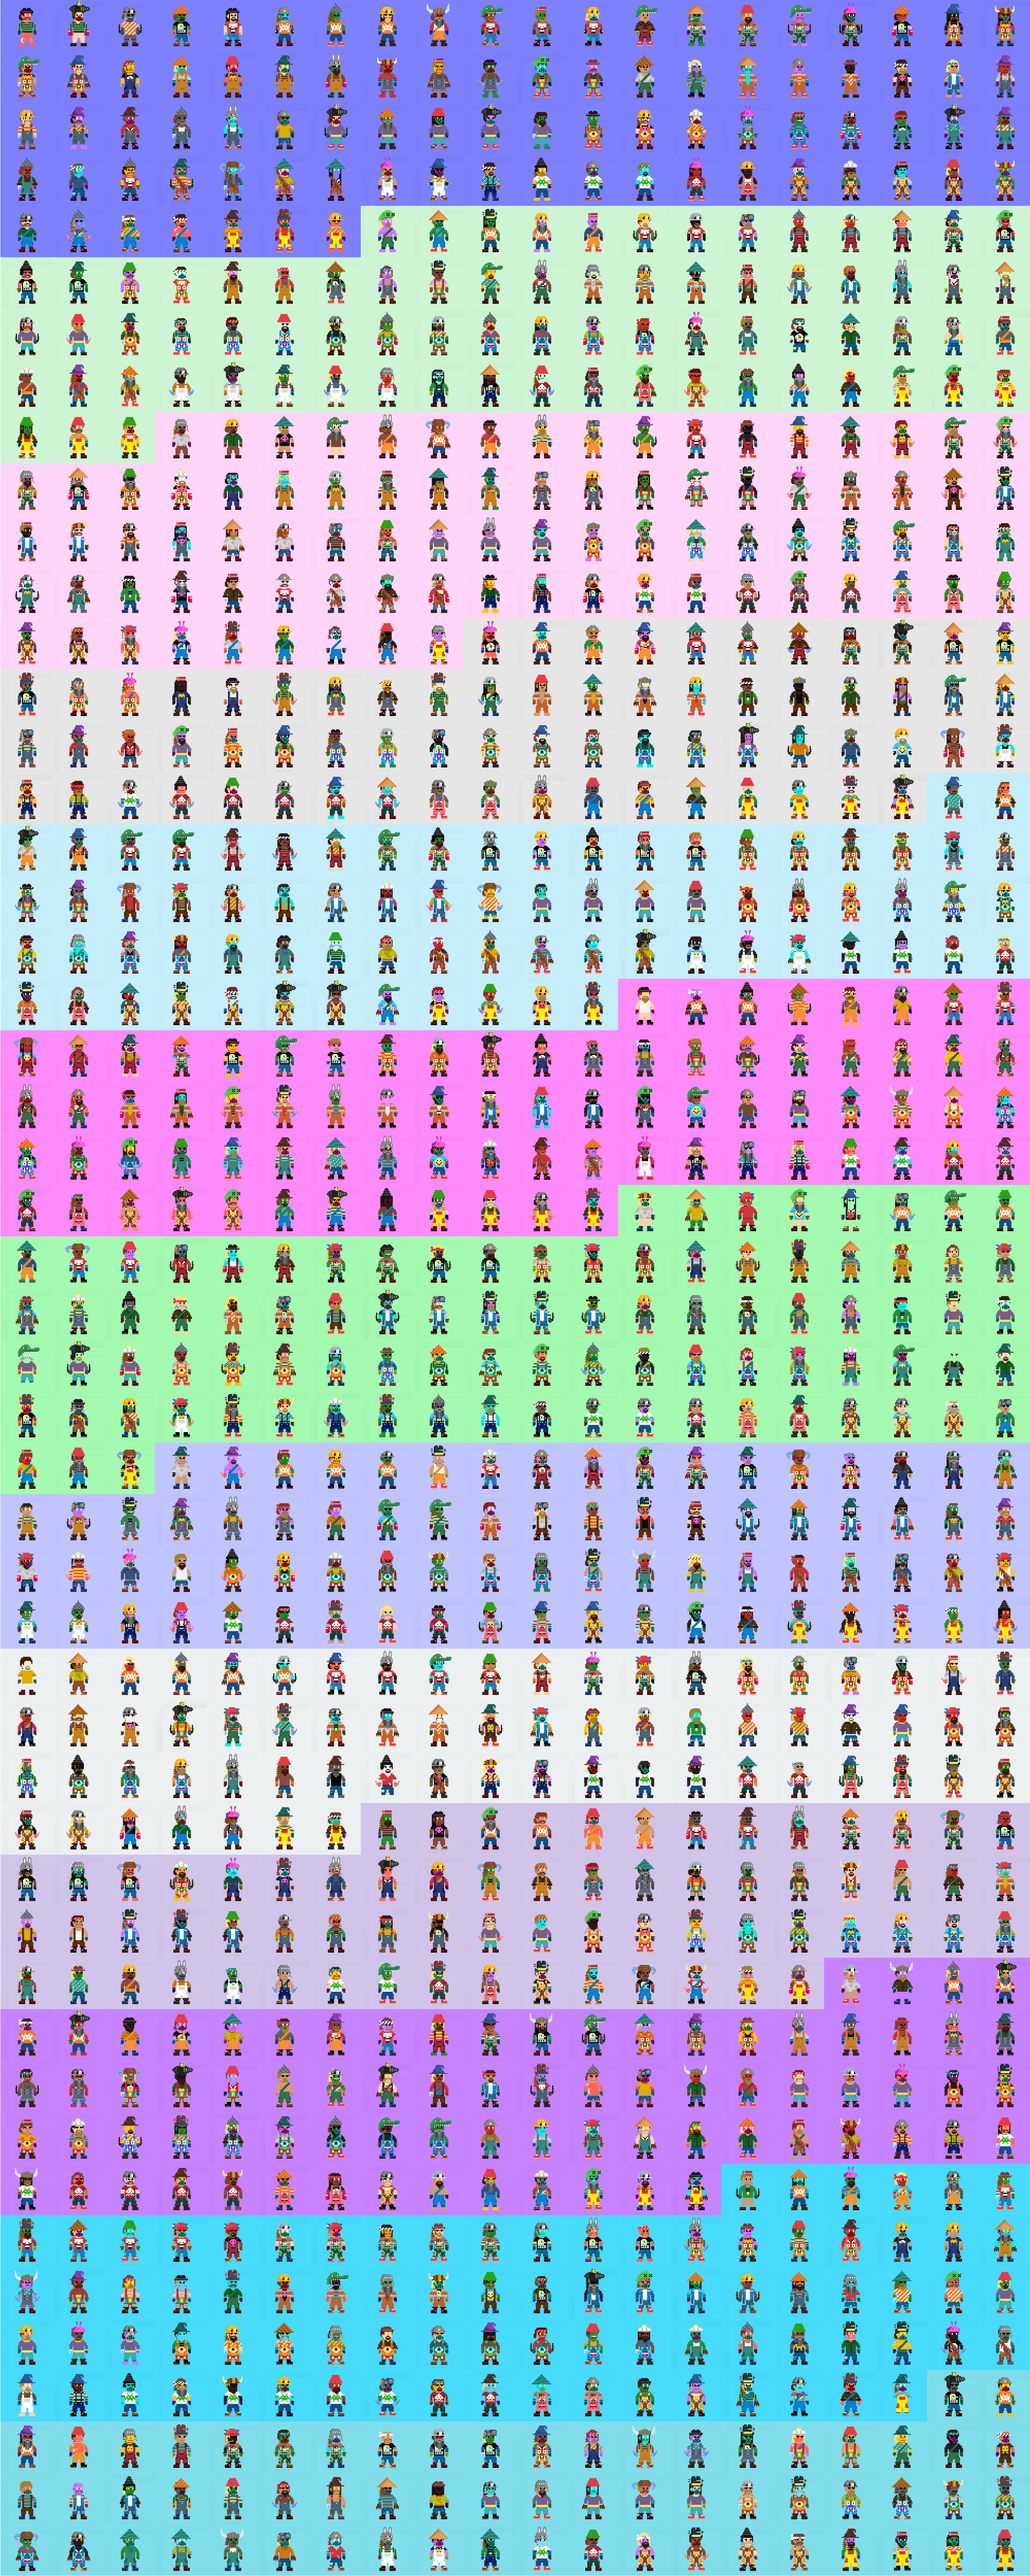
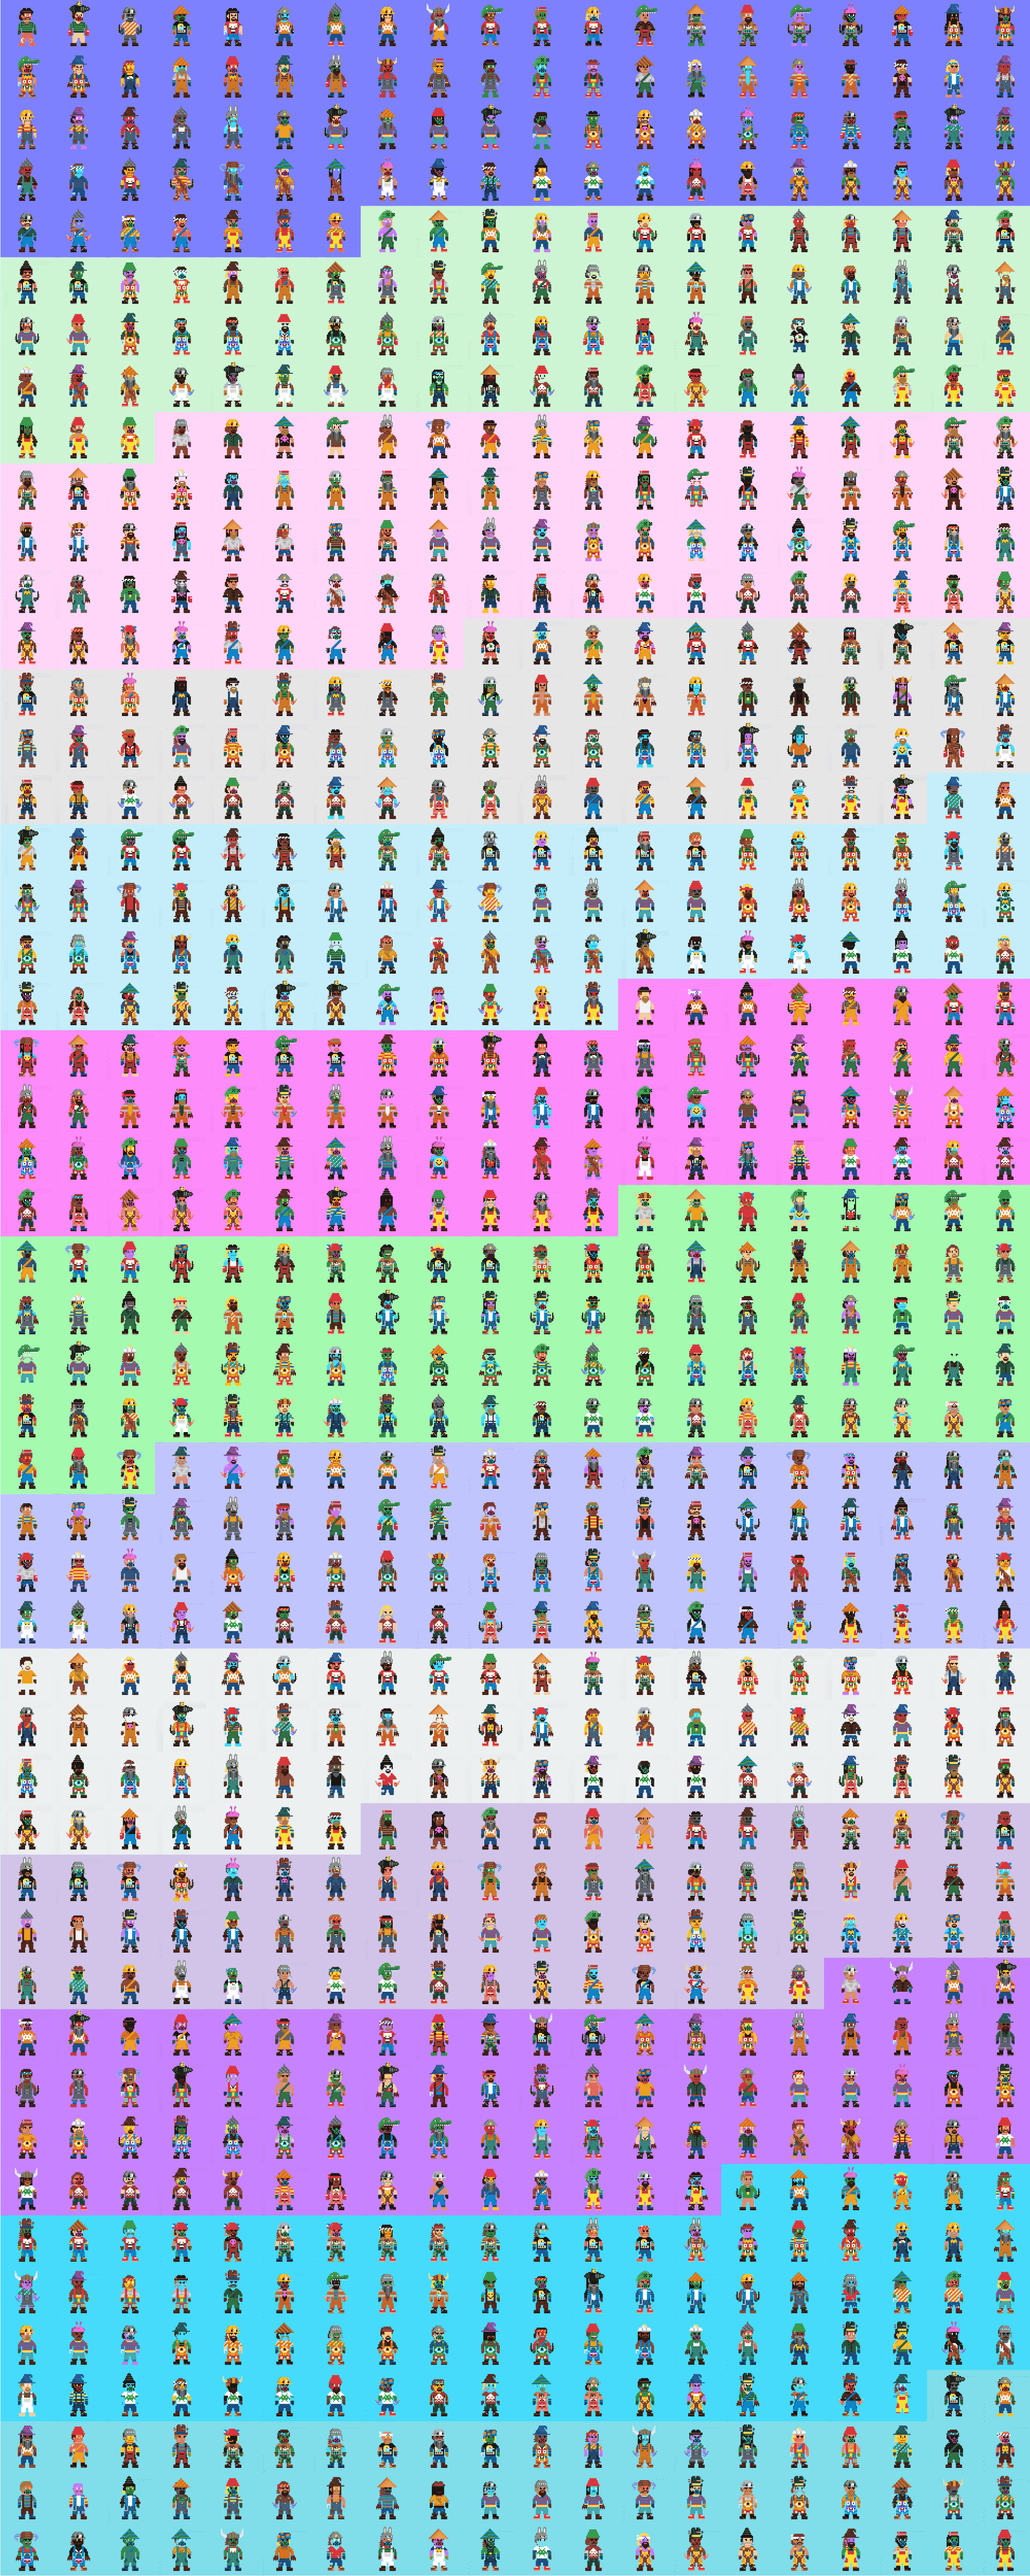
images size reduced

diff --git a/src/App.js b/src/App.js
@@ -11,8 +11,8 @@ import FAQ from './components/FAQ'
 import arrow from './assets/images/arrow.png'
 import CONTACT from './components/CONTACT'
 import FOOTER from './components/FOOTER'
-import left from './assets/images/left.png'
-import right from './assets/images/right.png'
+import left from './assets/images/left-min.png'
+import right from './assets/images/right-min.png'
 import Miner8 from './assets/images/miner8.png'
 import Miner6 from './assets/images/miner6.png'
 import Miner9 from './assets/images/miner9.png'  

diff --git a/src/components/SCREEN2/index.js b/src/components/SCREEN2/index.js
@@ -5,7 +5,7 @@ import Lineup1 from '../../assets/images/lineup1.png'
 import Lineup2 from '../../assets/images/lineup2.png'
 import Lineup3 from '../../assets/images/lineup3.png'
 import REDX from '../../assets/images/red-x.png'
-import Cieling from '../../assets/images/CAVE CIELING FRONT.png'
+import Cieling from '../../assets/images/CAVE CIELING FRONT-min.png'
 import Group from '../../assets/images/Group 383.png'
 import box from '../../assets/images/Group 388.png'
 import coin from '../../assets/images/coin.png'
